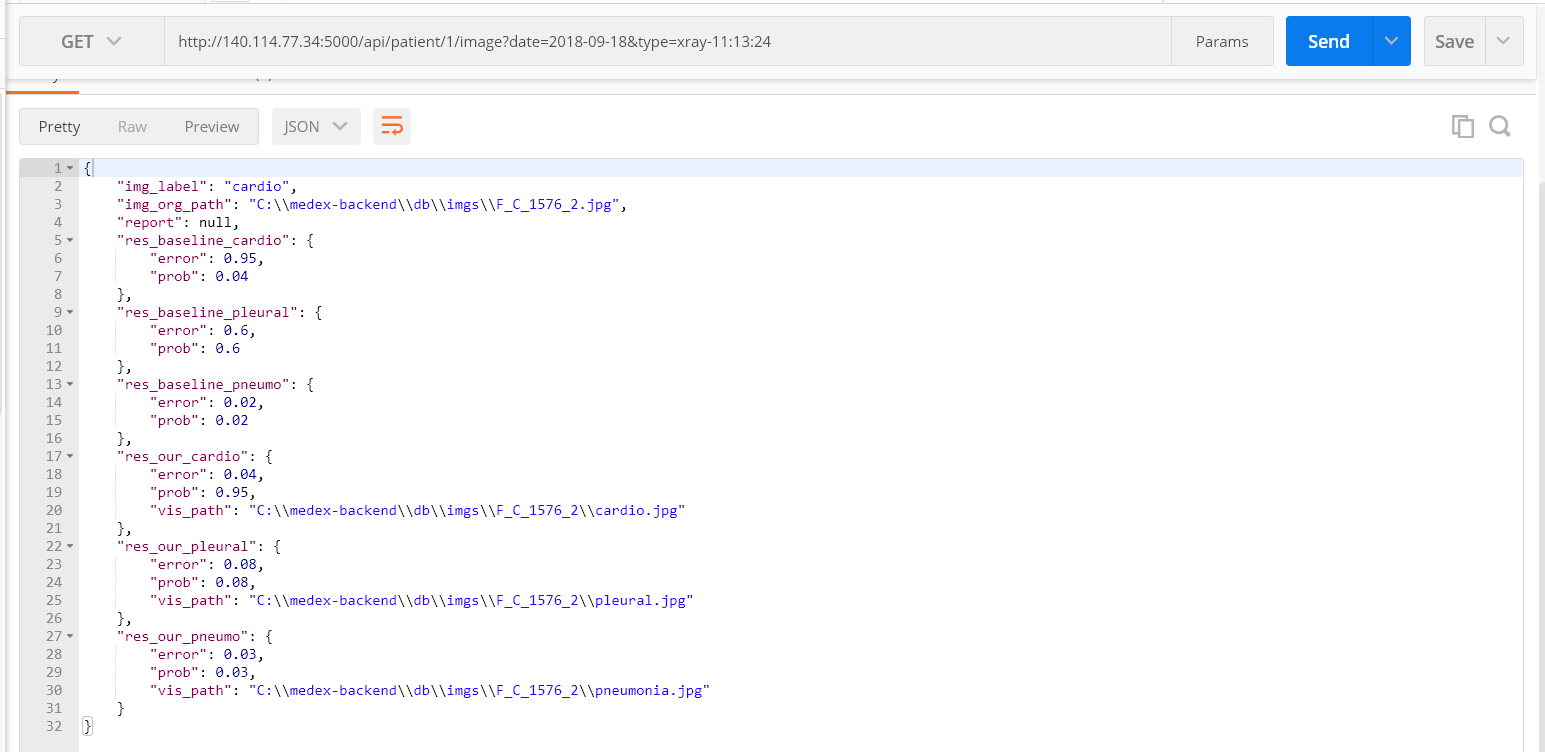
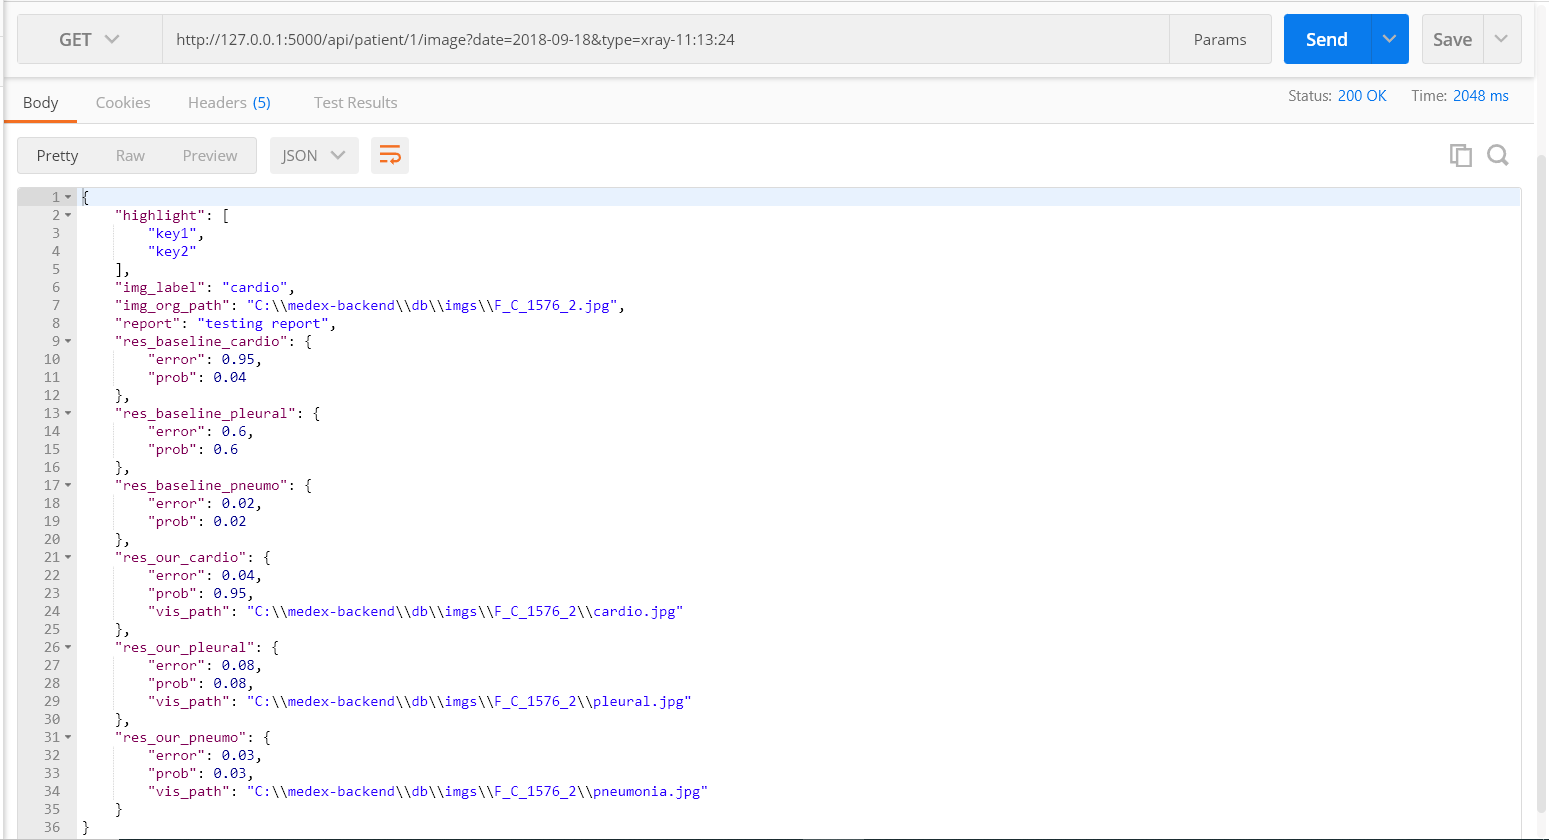
update highlight into API3

diff --git a/connectdb.py b/connectdb.py
@@ -39,7 +39,7 @@ class Database:
     def sql_fetch_images(self, patient_id, date, time):
         print(patient_id, date, time)
         self.cursorObj.execute(
-            'SELECT ID, Cardio, Pneumo, Pleural, Path, Report FROM Image WHERE (PatientID=? AND datetime(Date)=?);', (patient_id, date+" "+time))
+            'SELECT ID, Cardio, Pneumo, Pleural, Path, Report, Keyword FROM Image WHERE (PatientID=? AND datetime(Date)=?);', (patient_id, date+" "+time))
         rows = self.cursorObj.fetchall()
         self.con.commit()
         for row in rows:

diff --git a/parse.py b/parse.py
@@ -59,6 +59,9 @@ def parse_img_rows(img_rows):
     res = {}
     res["img_org_path"] = img_rows[0][4]
     res["report"] = img_rows[0][5]
+    res["highlight"] = img_rows[0][6]
+    if res["highlight"] is not None:
+        res["highlight"] = res["highlight"].split("--")
     return res
 
 

diff --git a/Readme.md b/Readme.md
@@ -52,9 +52,10 @@ route: /api/patient/<id>/image
 request: id, date, type
 response:
 {
+    "highlight": [str, str, str]/Null,
     "img_label": str,
     "img_org_path": str,
-    "report": str
+    "report": str/Null,
     "res_our_cardio":{
         prob:float,
         path:str
